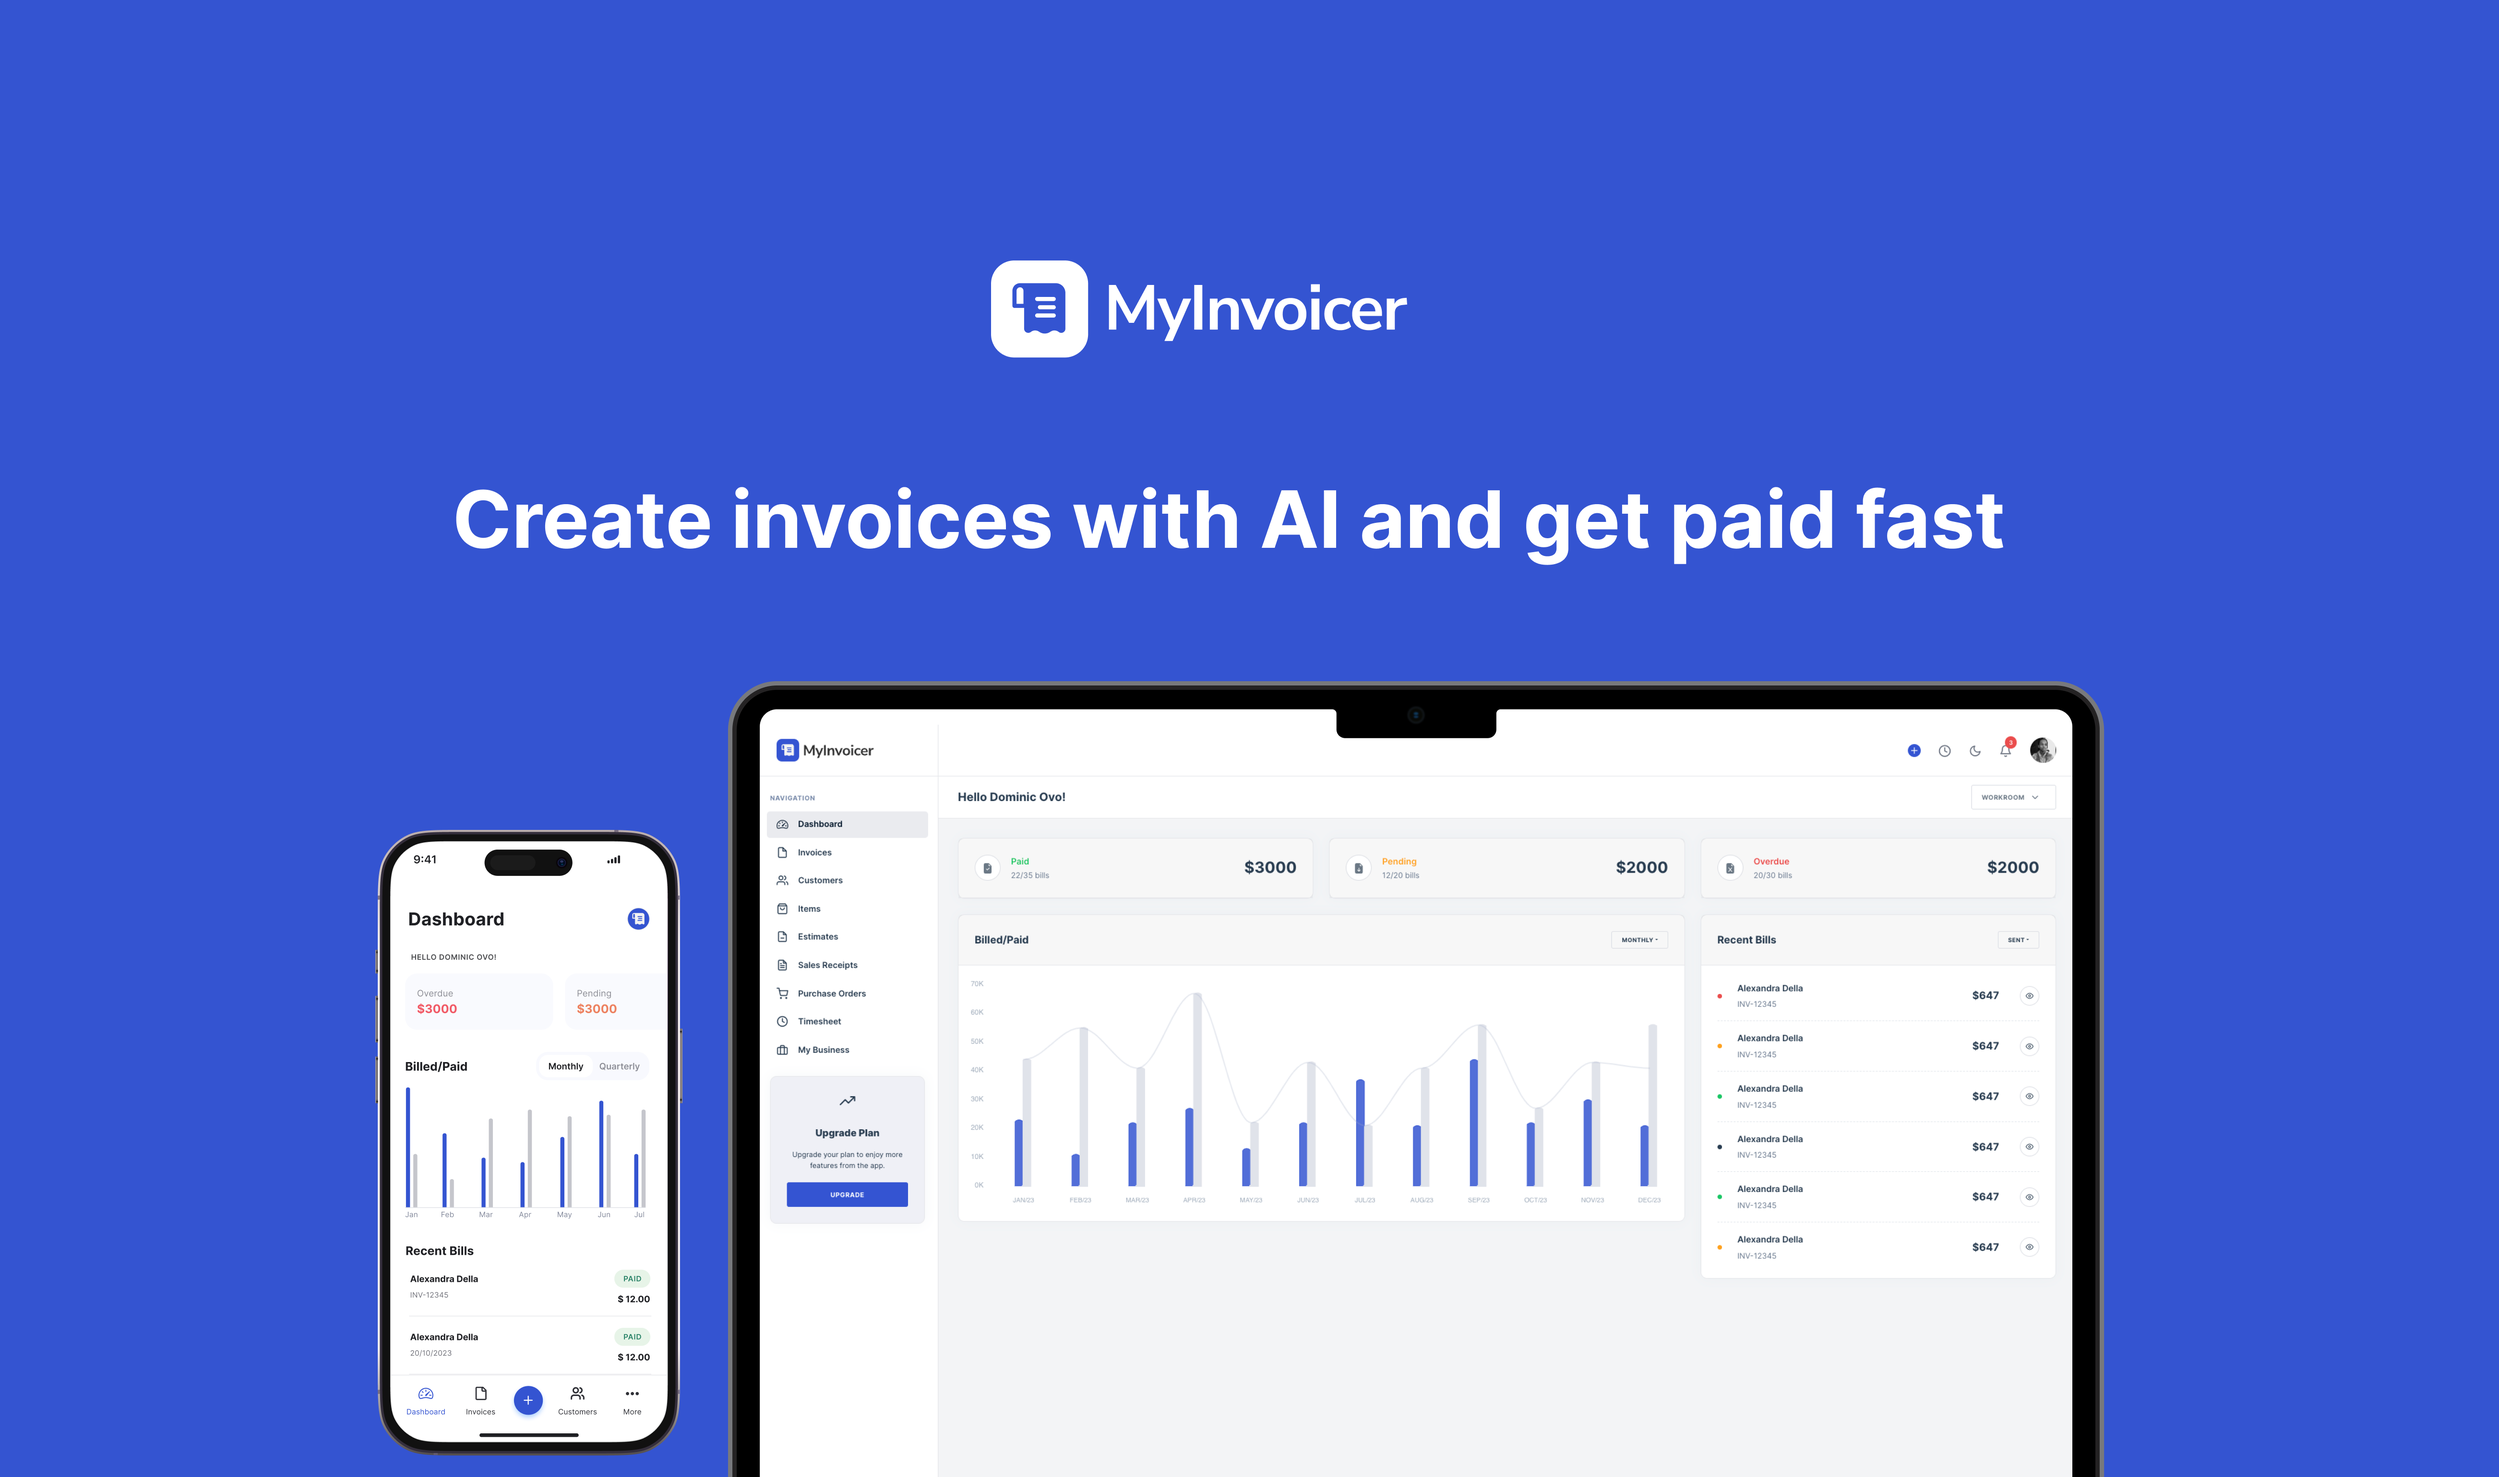
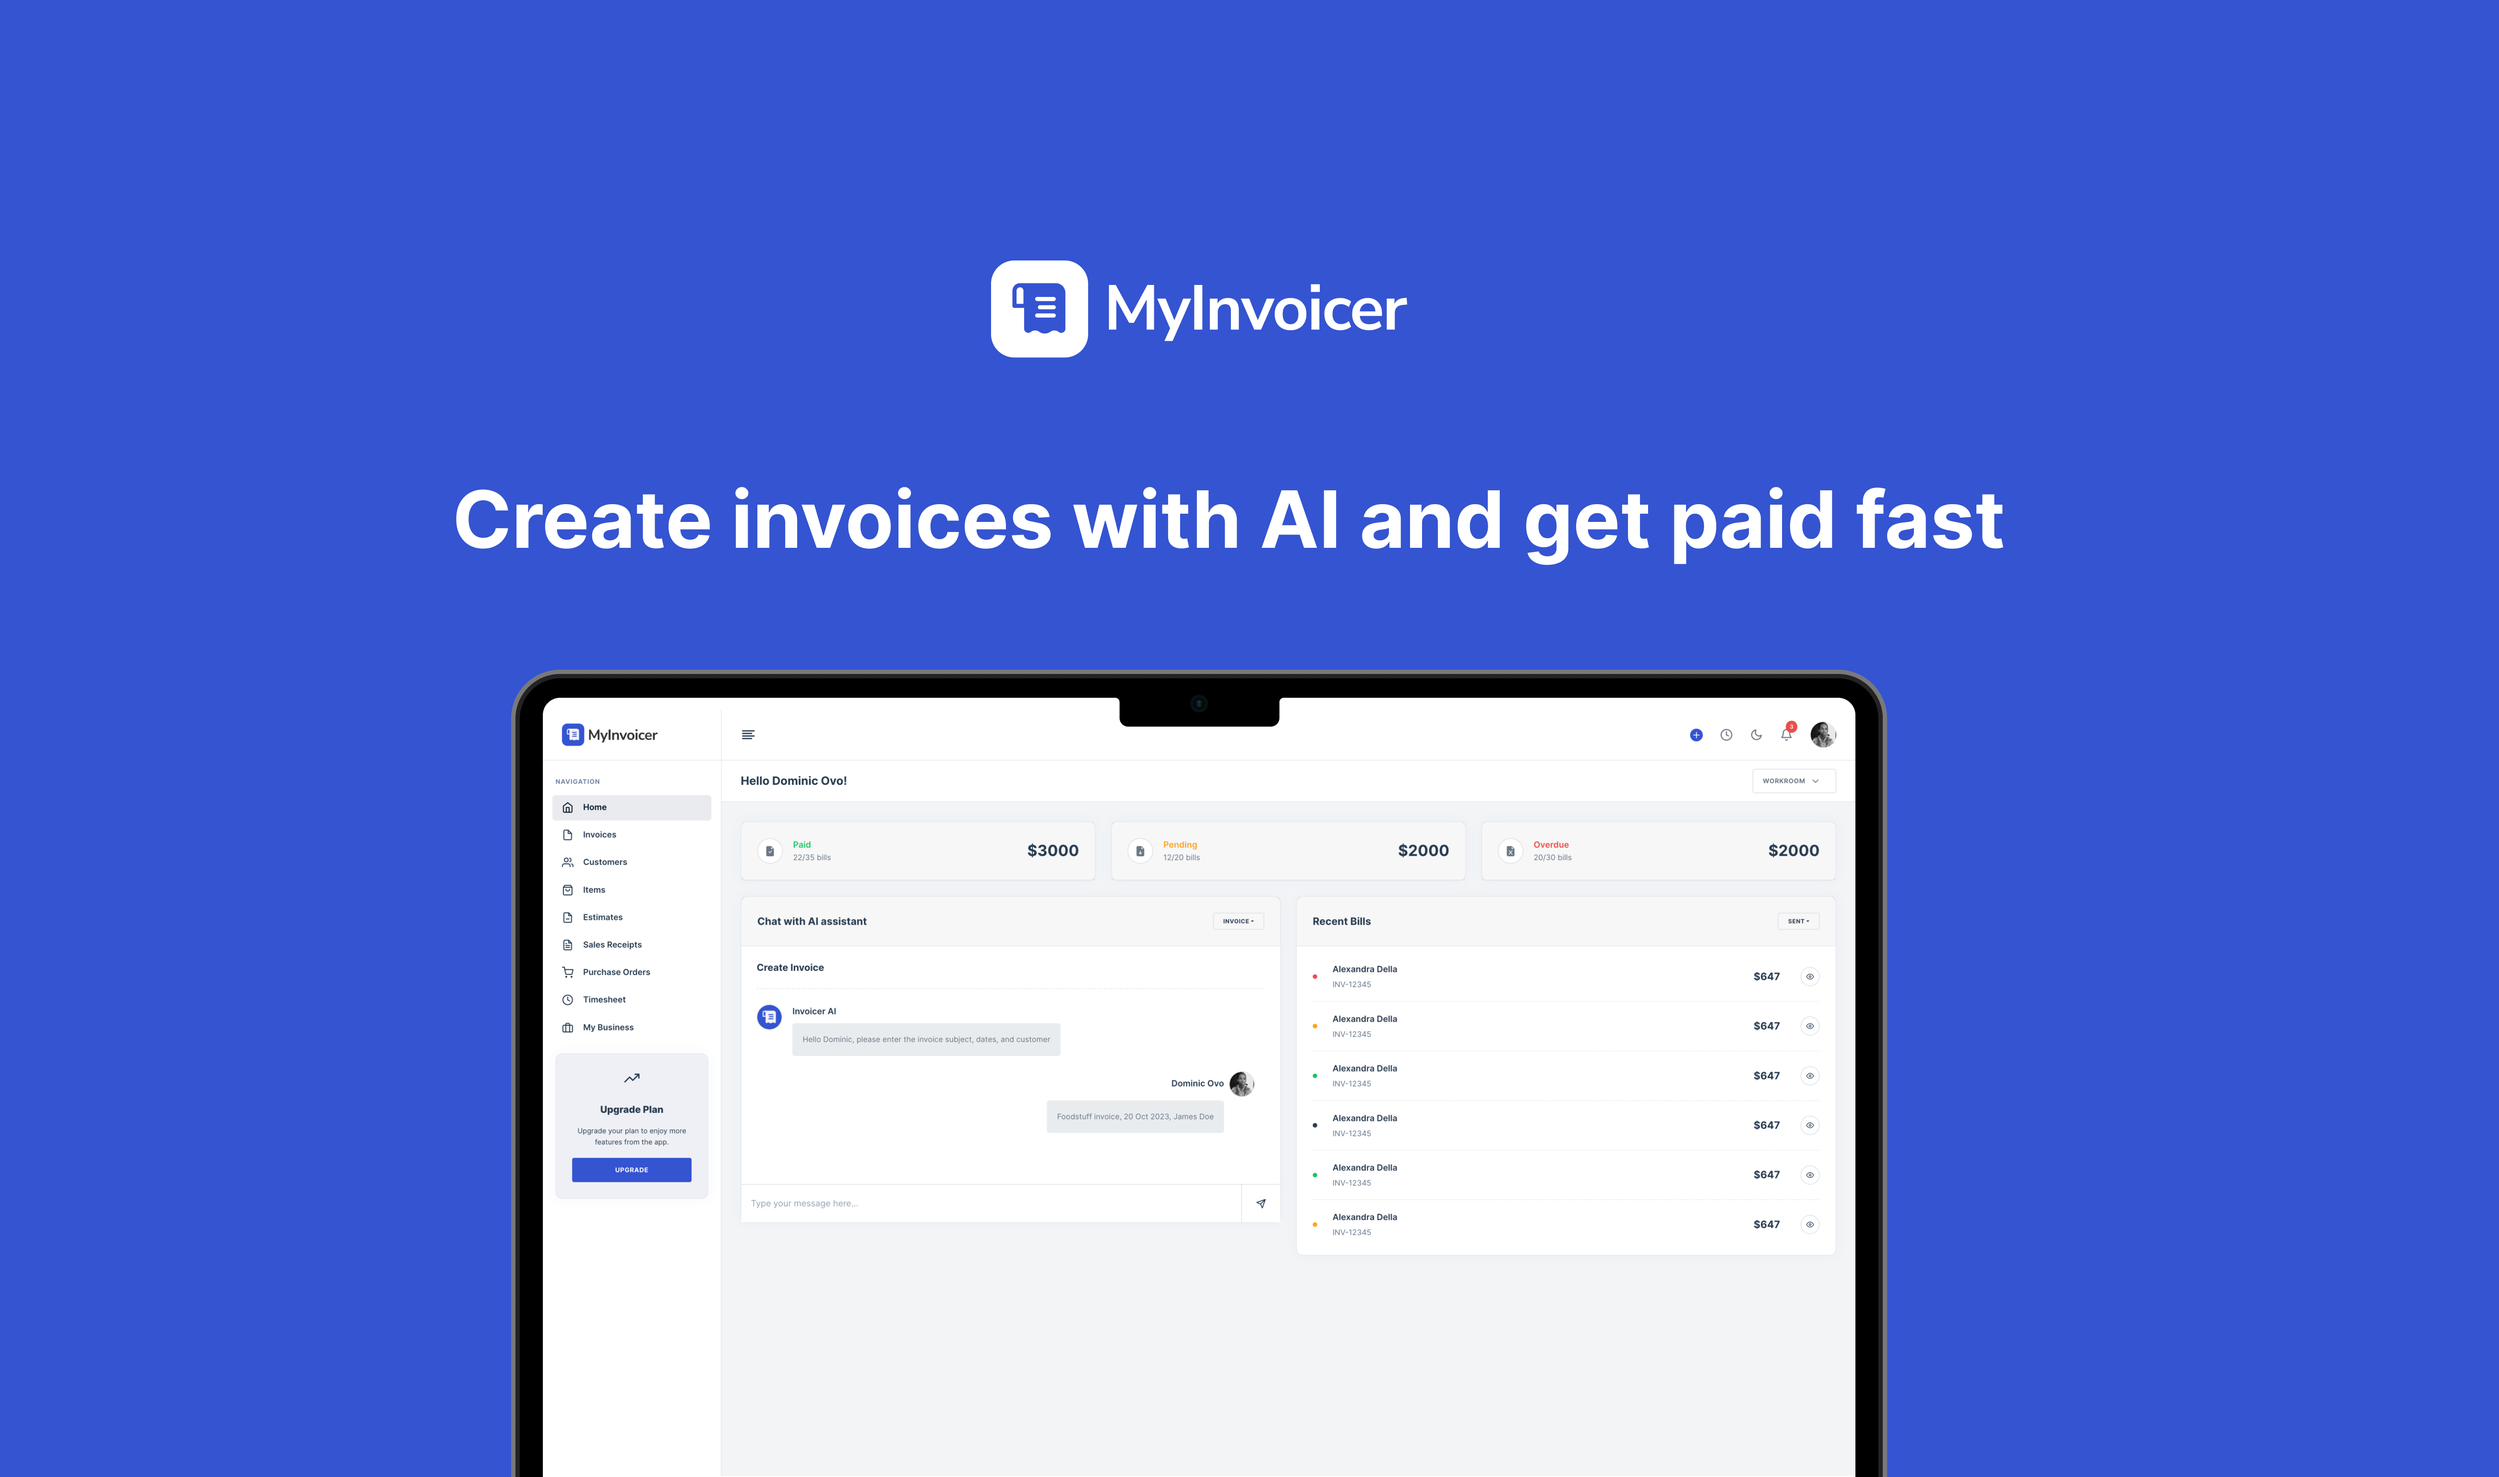
recent update

diff --git a/myinvoicer.html b/myinvoicer.html
@@ -263,6 +263,9 @@
                                 <p>The Authentication flow was designed to easily help the users create account in a few easy steps first by verifying their email address, so they can be stored on the database, 
                                     also when creating account I ensured to put the password visibility to help users know when they entered a wrong password, and a tooltip to tell your password strength.</p>
                             </div>
+                            <div class="img mb-80 mt-30">
+                                <img src="assets/imgs/works/project/auth flow.png" alt="" class="radius-5">
+                            </div>
                             <section class="html5-video position-relative">
                                 <div class="container">
                                     <div class="row">
@@ -273,14 +276,14 @@
                                 </div>
                             </section> 
                             <div class="title mt-50 mb-30">
-                                <h5 class="fw-500">The Dashboard:</h5>
+                                <h5 class="fw-500">The Home Page:</h5>
                             </div>
                             <div class="d-flex align-items-center mb-20">
-                                <p>The Dashboard page was designed to accommodate 90% of the task the user wants to perform, this includes; Creating Invoices, Estimates and Customers. Invoices, Estimates and Customers overview,
-                                     Archives, and Profile. The idea of the dashboard is to give the users an overview of the app and help them navigate faster. Also they get to ensure the accuracy and completeness of their invoicing data, facilitating proper financial reporting, expensing, and decision-making.</p>
+                                <p>The home page was designed to accommodate 90% of the task the user wants to perform, this includes; Creating invoices, estimates and purchase orders. sales receipts, There is an AI chat assistant that helps users easily create whatever bill they want
+                                    all they have tto do is to send the required details to teh AI assistant and the bill is generated automatically. This helps users navigate the app faster as well as ensuring the accuracy and completeness of their invoicing data, facilitating proper financial reporting, expensing, and decision-making.</p>
                             </div>
                             <div class="img mb-80 mt-30">
-                                <img src="assets/imgs/works/project/My-Invoicer-Dashboard.png" alt="" class="radius-5">
+                                <img src="assets/imgs/works/project/My-Invoicer-Home.png" alt="" class="radius-5">
                             </div>
                             <div class="title mt-50">
                                 <h5 class="fw-500">All Invoices:</h5>
